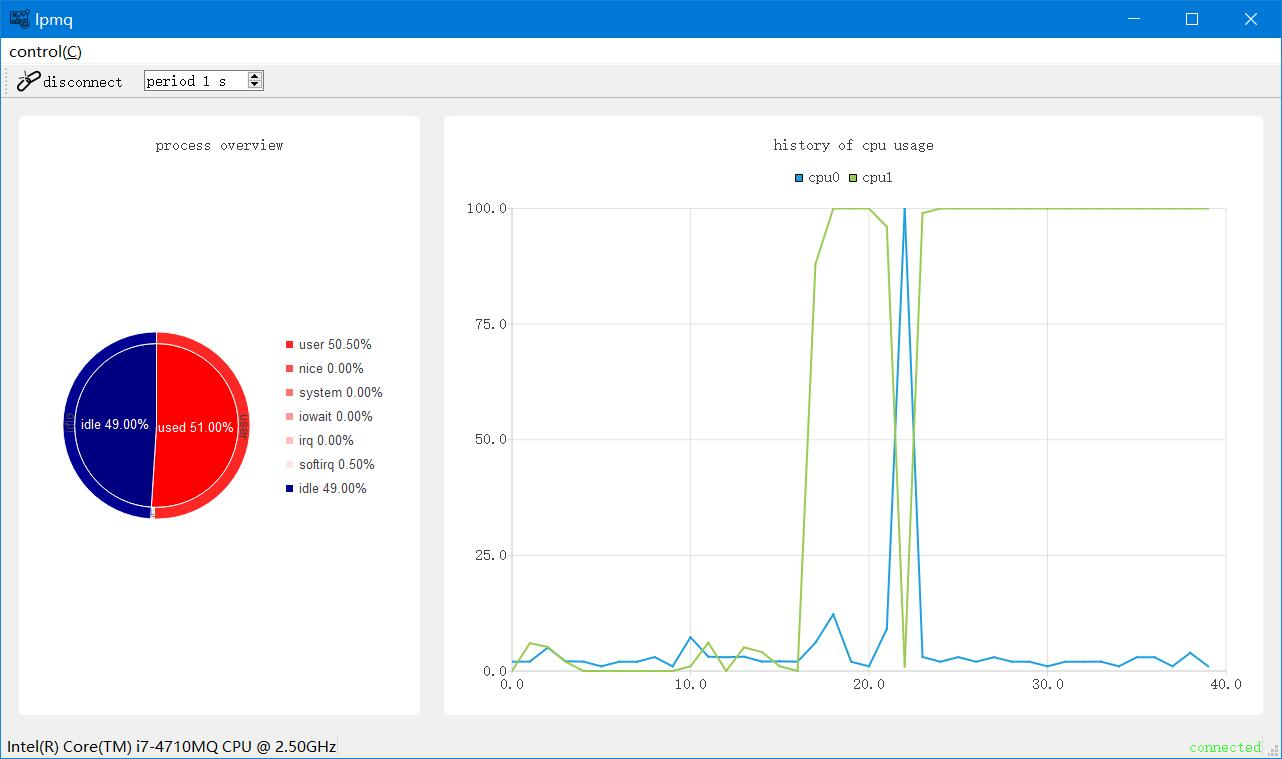
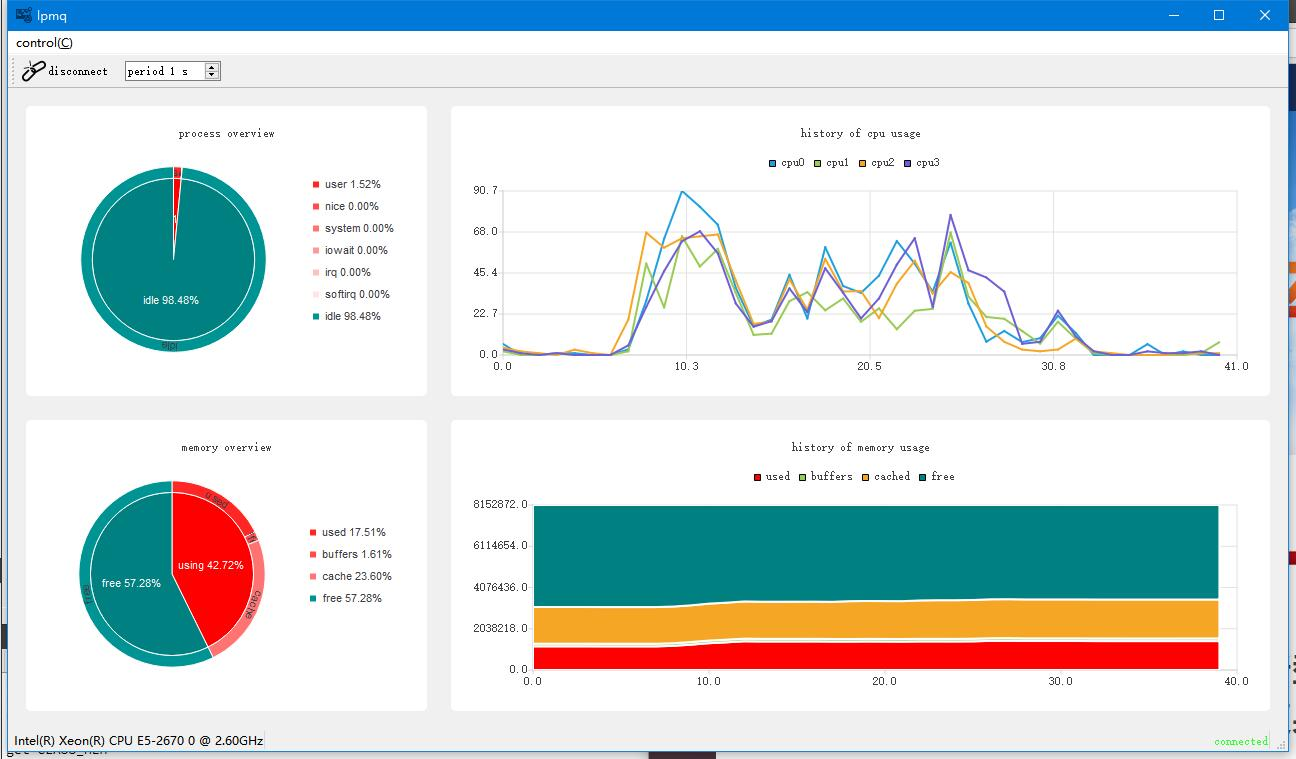
feature(overview) : add overview for memory usage

diff --git a/display/multiline/dislinechart.cpp b/display/multiline/dislinechart.cpp
@@ -1,12 +1,15 @@
 #include "dislinechart.h"
 #include <QDebug>
-
+#include <QtCharts/QAreaSeries>
+#include <QPointF>
 
 QT_CHARTS_USE_NAMESPACE
 
 DisLineChart::DisLineChart(QObject *parent)
-: QObject(parent),psLineChart(new QChart()),
-  psAxisX (new QValueAxis()), psAxisY (new QValueAxis())
+: QObject(parent),
+  psLineChart(new QChart()),
+  psAxisX (new QValueAxis()), psAxisY (new QValueAxis()),
+  memLineChart(new QChart())
 {
     psLineChart->setTitle(tr("history of cpu usage"));
 
@@ -37,6 +40,56 @@ QChartView *DisLineChart::createPsChart(void)
     chartView->setRenderHint(QPainter::Antialiasing);
 
     return chartView;
+}
+QChartView *DisLineChart::createMemChart(void)
+{
+    memLineChart->setTitle(tr("history of memory usage"));
+
+    QLineSeries * lineUsed = new QLineSeries(memLineChart);
+    QLineSeries * lineUsedAddBuffers = new QLineSeries(memLineChart);
+    QLineSeries * lineUsedAddBuffersAndCache = new QLineSeries(memLineChart);
+    QLineSeries * lineTotal = new QLineSeries(memLineChart);
+
+    memLine.push_back(lineUsed);
+    memLine.push_back(lineUsedAddBuffers);
+    memLine.push_back(lineUsedAddBuffersAndCache);
+    memLine.push_back(lineTotal);
+
+    QAreaSeries *areaUsed = new QAreaSeries(lineUsed);
+    areaUsed->setName("used");
+    areaUsed->setColor(Qt::red);
+
+    QAreaSeries *areaBuffers = new QAreaSeries(lineUsedAddBuffers, lineUsed);
+    areaBuffers->setName("buffers");
+
+    QAreaSeries *areaCached = new QAreaSeries(lineUsedAddBuffersAndCache, lineUsedAddBuffers);
+    areaCached->setName("cached");
+
+    QAreaSeries *areaFree = new QAreaSeries(lineTotal, lineUsedAddBuffersAndCache);
+    areaFree->setName("free");
+    areaFree->setColor(Qt::darkCyan);
+
+    memLineChart->addSeries(areaUsed);
+    memLineChart->addSeries(areaBuffers);
+    memLineChart->addSeries(areaCached);
+    memLineChart->addSeries(areaFree);
+
+    memLineChart->createDefaultAxes();
+
+    QChartView *chartView = new QChartView(memLineChart);
+    chartView->setRenderHint(QPainter::Antialiasing);
+
+    return chartView;
+}
+void  DisLineChart::refreshMemChart(const QMap<QString, qulonglong> &info)
+{
+    memLine[0]->append(memLine[0]->count(), info.value("mem.used"));
+    memLine[1]->append(memLine[1]->count(), info.value("mem.used") + info.value("mem.buffers"));
+    memLine[2]->append(memLine[2]->count(), info.value("mem.used") + info.value("mem.buffers") + info.value("mem.cache"));
+    memLine[3]->append(memLine[3]->count(), info.value("mem.total"));
+
+    memLineChart->axes(Qt::Vertical).first()->setMax(info.value("mem.total"));
+    memLineChart->axes(Qt::Horizontal).first()->setMax(memLine[0]->count());
 }
 bool  DisLineChart::psLineCreated(void)
 {

diff --git a/mainwindow.cpp b/mainwindow.cpp
@@ -76,7 +76,7 @@ MainWindow::MainWindow(QWidget *parent)
     QChartView *memChart = overviewPie->createMemChart();
 
     ui->gridLayout->addWidget(psChart, 0, 0, 1, 5);
-    ui->gridLayout->addWidget(memChart, 1, 0, 1, 15);
+    ui->gridLayout->addWidget(memChart, 1, 0, 1, 5);
 
     overviewLine = new DisLineChart(this);
     Q_CHECK_PTR(overviewLine);
@@ -85,7 +85,9 @@ MainWindow::MainWindow(QWidget *parent)
     Q_CHECK_PTR(psLine);
     ui->gridLayout->addWidget(psLine, 0, 5, 1, 10);
 
-
+    QChartView *memLine = overviewLine->createMemChart();
+    Q_CHECK_PTR(memLine);
+    ui->gridLayout->addWidget(memLine, 1, 5, 1, 10);
 
     disConnectStatus();
 
@@ -246,4 +248,5 @@ void MainWindow::showMemUsage(const QMap<QString, qulonglong> &info)
     qDebug() << "used " << info.value("mem.used");
 
     overviewPie->refreshMemChart(info);
+    overviewLine->refreshMemChart(info);
 }

diff --git a/display/donutbreakdown/dispiechart.cpp b/display/donutbreakdown/dispiechart.cpp
@@ -34,7 +34,7 @@ QChartView *DisPieChart::createPsChart()
     psChart->setTitle(tr("process overview"));
     psChart->legend()->setAlignment(Qt::AlignRight);
     psChart->addBreakdownSeries(psUsed, Qt::red);
-    psChart->addBreakdownSeries(psFree, Qt::darkBlue);
+    psChart->addBreakdownSeries(psFree, Qt::darkCyan);
 
     QChartView *chartView = new QChartView(psChart);
     chartView->setRenderHint(QPainter::Antialiasing);
@@ -58,7 +58,7 @@ QChartView *DisPieChart::createMemChart()
     memChart->setTitle(tr("memory overview"));
     memChart->legend()->setAlignment(Qt::AlignRight);
     memChart->addBreakdownSeries(memUsed, Qt::red);
-    memChart->addBreakdownSeries(memFree, Qt::darkBlue);
+    memChart->addBreakdownSeries(memFree, Qt::darkCyan);
 
     QChartView *chartView = new QChartView(memChart);
     chartView->setRenderHint(QPainter::Antialiasing);

diff --git a/display/multiline/dislinechart.h b/display/multiline/dislinechart.h
@@ -21,6 +21,8 @@ public:
     bool  psLineCreated(void);
     void  refreshPsChart(const QMap<QString, double> &info);
 
+    QChartView *createMemChart(void);
+    void  refreshMemChart(const QMap<QString, qulonglong> &info);
 private:
     QVector <QLineSeries *> psLine;
     QChart *psLineChart;
@@ -28,6 +30,9 @@ private:
     QValueAxis *psAxisX;
     QValueAxis *psAxisY;
     qreal       yMax = 0;
+
+    QVector <QLineSeries *> memLine;
+    QChart *memLineChart;
 signals:
 private slots:
     void       psPointAdded(int index);
